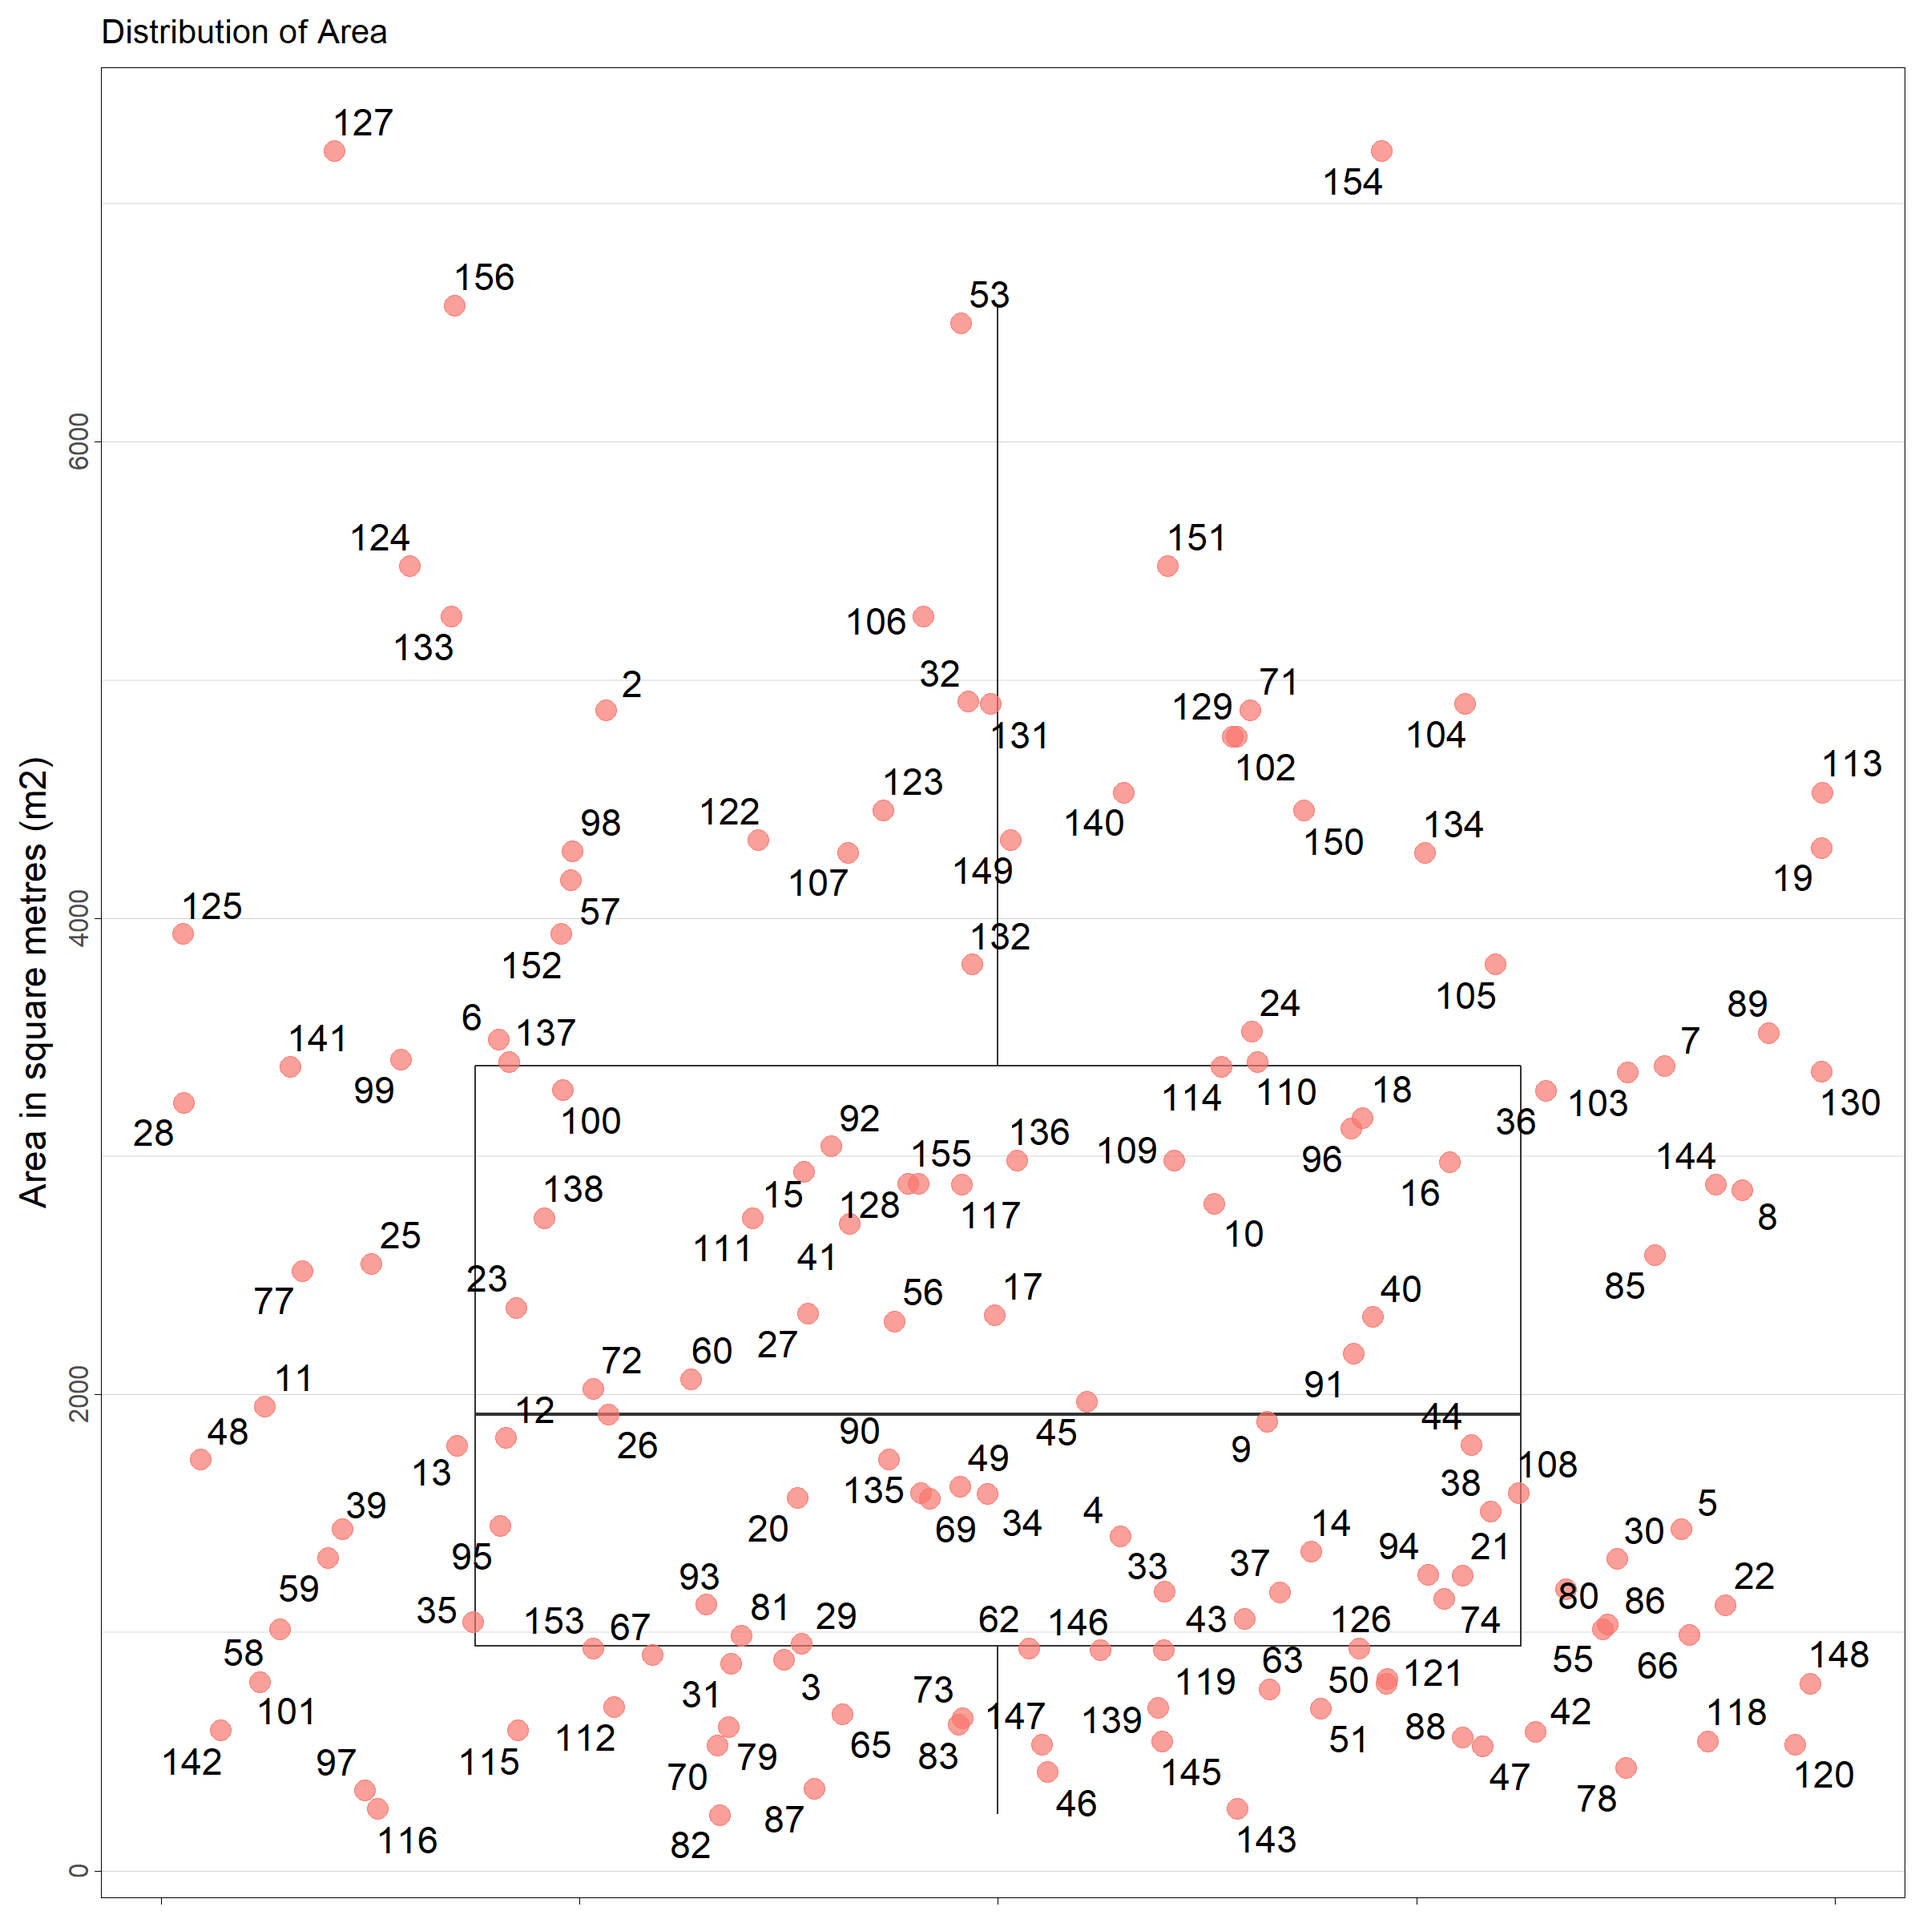
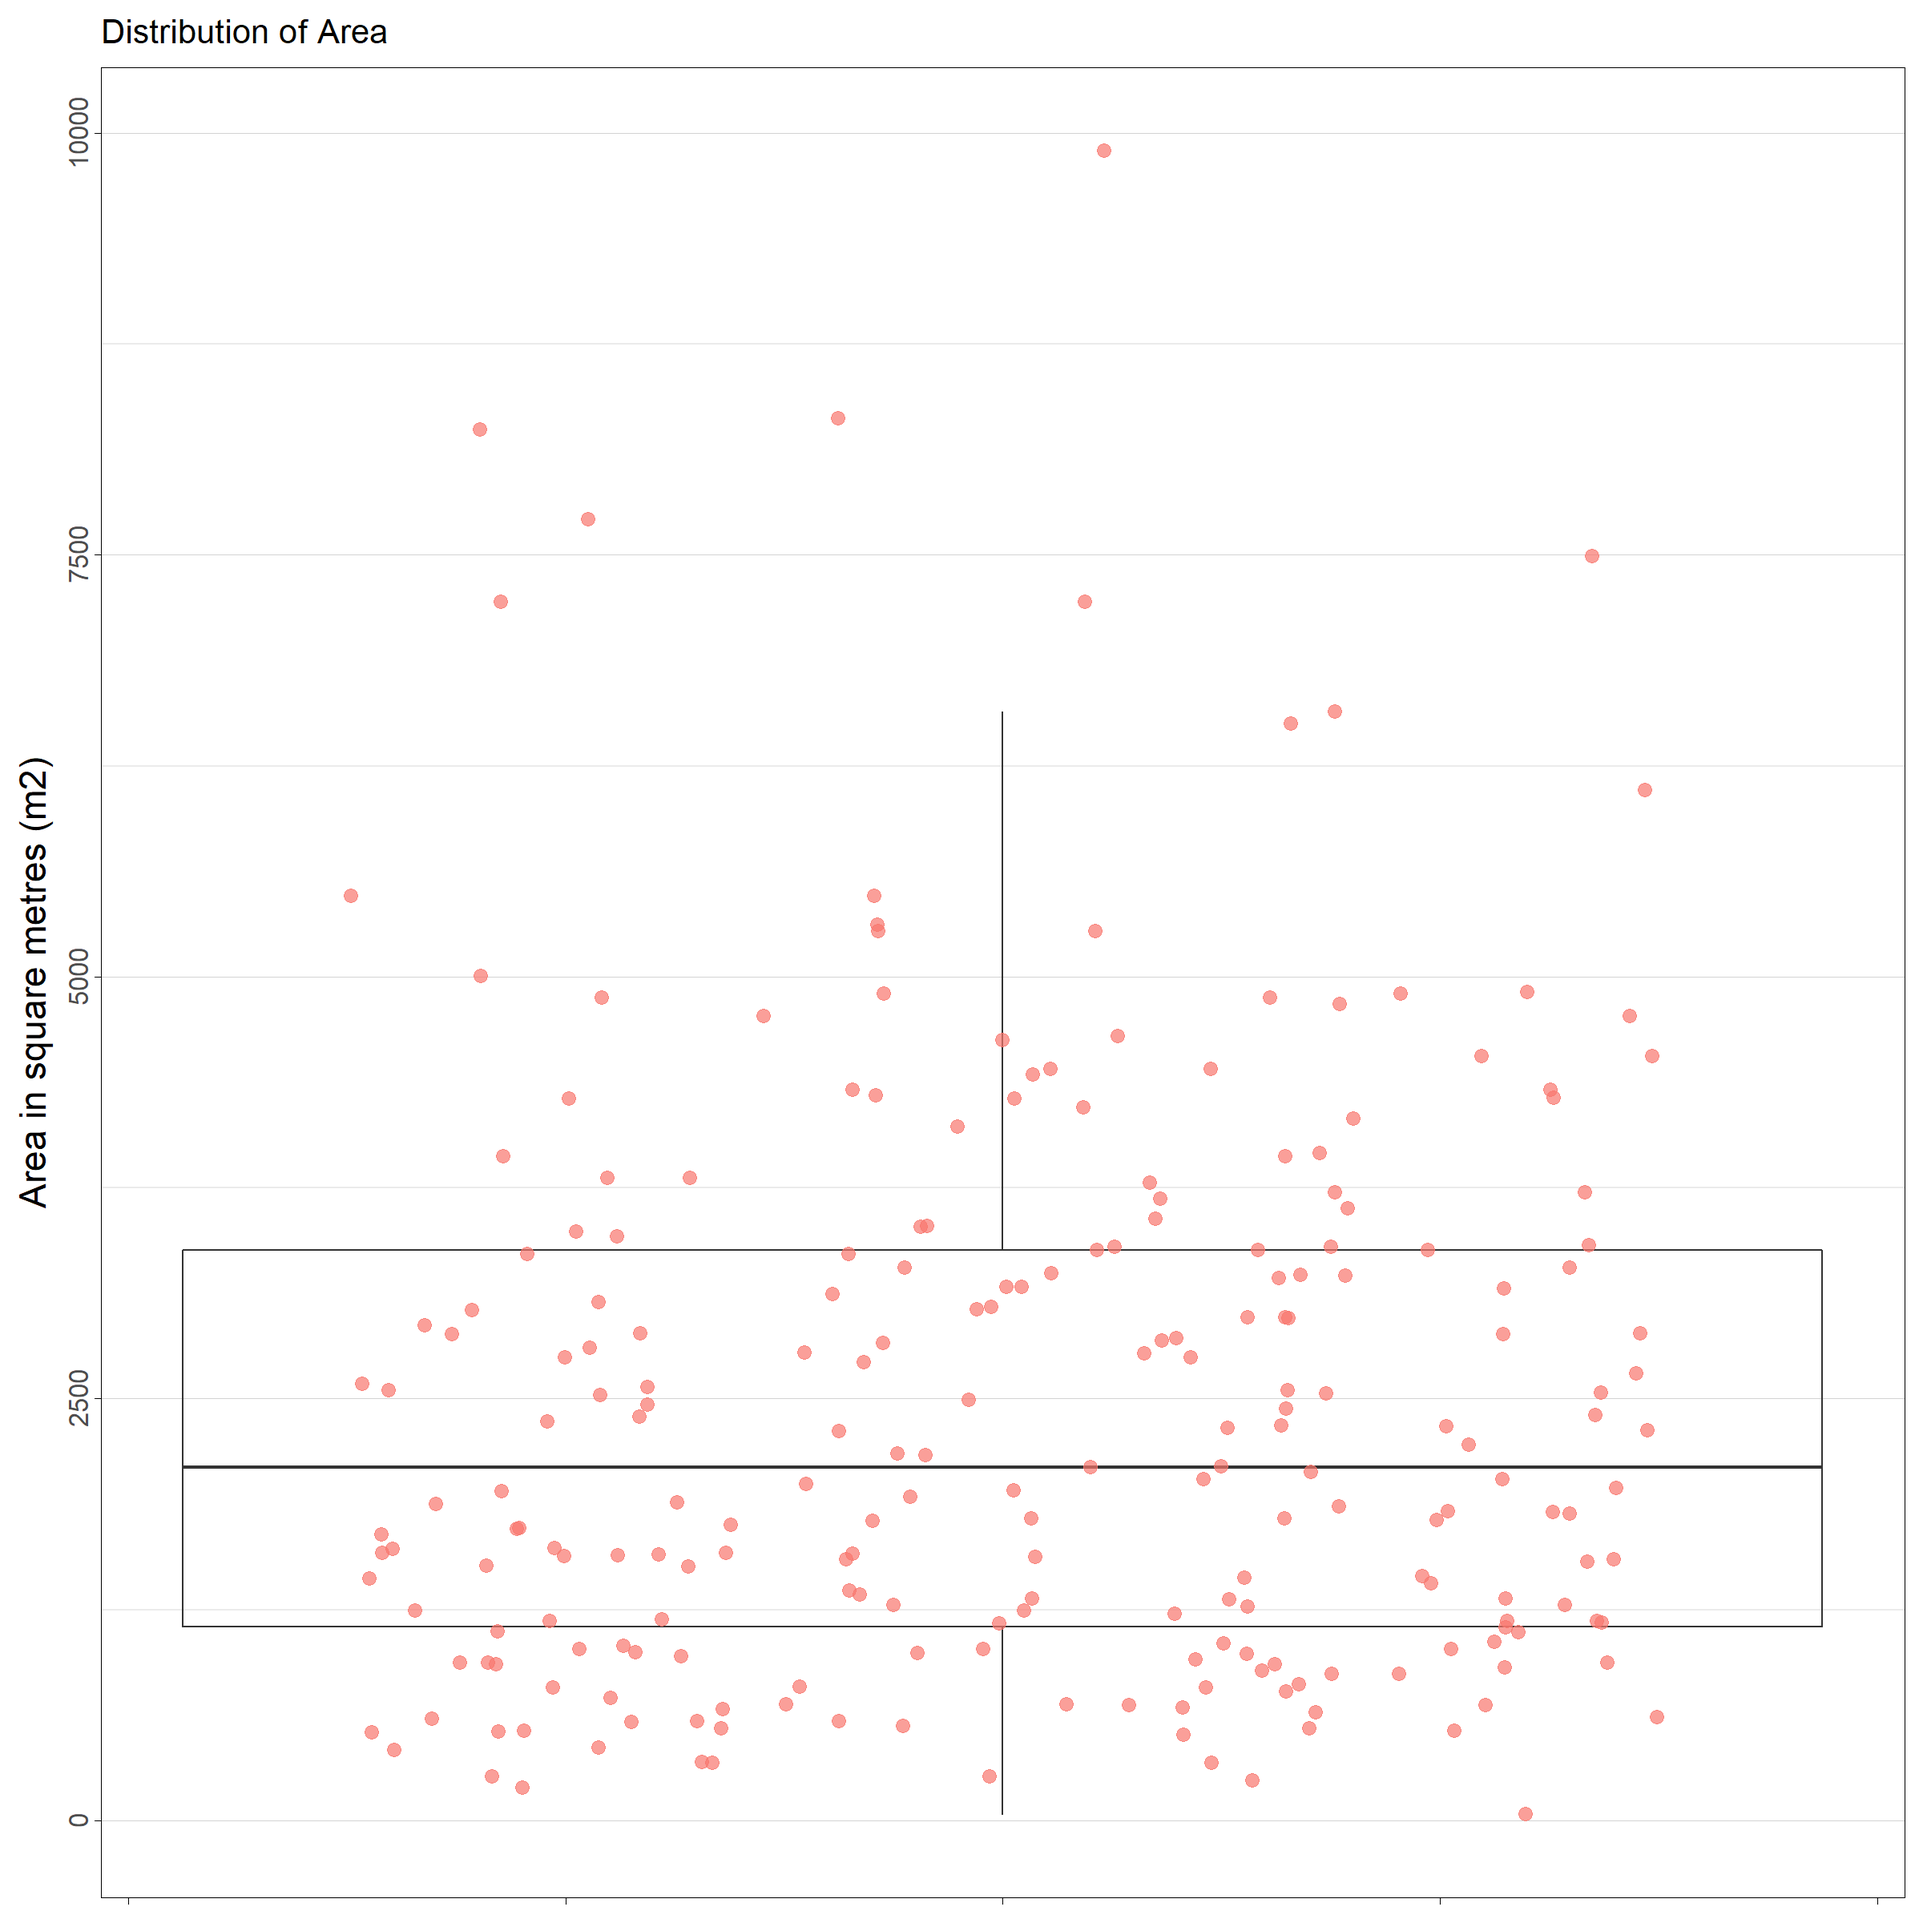
update

diff --git a/README.md b/README.md
@@ -173,14 +173,17 @@ Will give:
 1: EAMENA-0192223, 2: EAMENA-0192598, 3: EAMENA-0192599, [...], 153: EAMENA-0194775, 154: EAMENA-0194776, 155: EAMENA-0194777, 156: EAMENA-0194778
 ```
 
-Plot the areas:
+Plot some measurements, here the areas, both for the whole heritage places (left) or for the heritages places discrimined by routes (right):
 
 ```
-geojson_measurements(stat.name = "areas", plot.stat = T)
+require(gridExtra)
+p1 <- geojson_measurements(stat.name = "areas")
+p2 <- geojson_measurements(stat.name = "areas_by_routes", by.routes = T)
+grid.arrange(p1, p2, ncol = 2, widths = c(1, 2))
 ```
 
 <p align="center">
-  <img alt="img-name" src="./results/areas.png" width="500">
+  <img alt="img-name" src="./results/areas_sbs.png" width="500">
 </p>
 
 #### Paths
